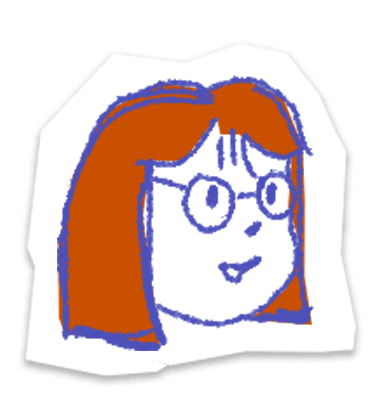
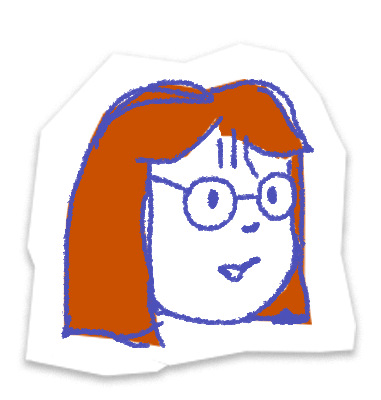
update ryu image

Changed region(s): [[0.1444, 0.18, 0.8373, 0.9], [0.5486, 0.63, 0.6929, 0.72]]

diff --git a/index.html b/index.html
@@ -133,12 +133,13 @@
 
         <div class="row">
             <div class="edge-col">
-                <img style="right: 10px" class="sticker-portrait draggable" src="img/k-sketch-white.png">
+                <img class="sticker-portrait draggable" src="img/r-sketch-white.png">
             </div>
             <div class="center-col">
                 <div class="gift-container" id="giftContainer">
                     <img src="img/gift-box.png" class="gift" id="giftBox" alt="Gift Box">
                     <div class="giftText" id="giftText">
+                        <img class="inline-portrait" src="img/r-sketch-nostick.png">
                         <p>
                             [R] is also a dear friend from college. We have been roommates, on and off, for around 5
                             years. is more of a classic rock kind of guy. Songs by <b>Daryl Hall & John Oates</b> or
